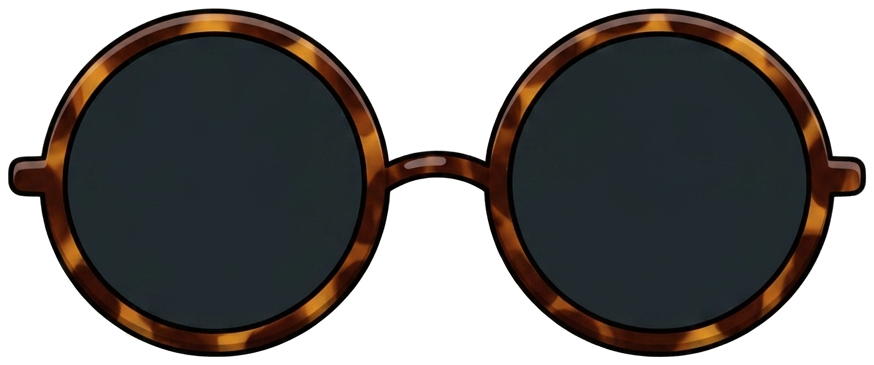
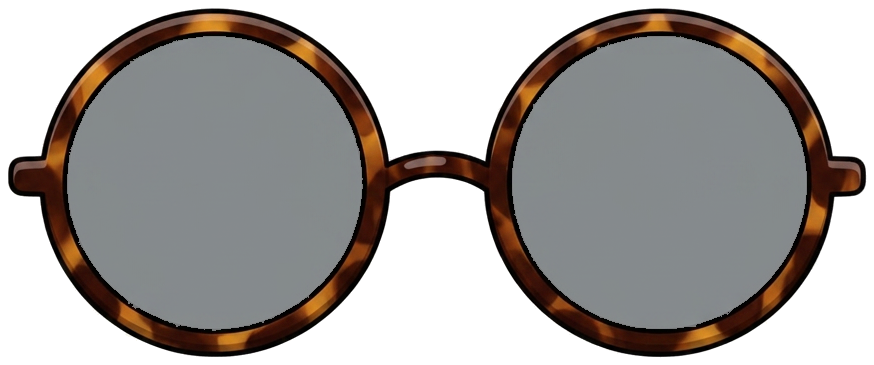
Make tinted lenses semi-transparent so the expression reads through
An opaque lens made sunglasses the one item that hid the mood the app exists
to record. The tinted lens now carries alpha 140 rather than 255, grown back
out from the eroded detection region by colour the way the clear case is grown
out by the white plate.

The choke needed masking off: a darkest-neighbour filter reads the lens as an
edge and drags its value a pixel into the rim, ringing the inside of the
frame. Binarising the silhouette avoids that but discards the partial-alpha
edges the choke is for, worth ~1000px of halo on each clear pair; holding the
lens opaque during the filter avoids both. Clear pairs re-place to zero
differing pixels.

diff --git a/web/index.html b/web/index.html
@@ -16,7 +16,7 @@
 <meta name="apple-mobile-web-app-title" content="Moodmate">
 <link rel="manifest" href="manifest.webmanifest">
 <link rel="apple-touch-icon" href="assets/appicon-192.png">
-<link rel="stylesheet" href="styles.css?v=569093a555">
+<link rel="stylesheet" href="styles.css?v=5341e9609e">
 <script>
   /* Runs before first paint, so a chosen theme doesn't arrive a frame late as
      a white flash. app.js reads the same key and owns it from there. */
@@ -159,7 +159,7 @@
 
 <div class="lightbox" id="lightbox" hidden></div>
 
-<script src="i18n.js?v=569093a555"></script>
-<script src="app.js?v=569093a555"></script>
+<script src="i18n.js?v=5341e9609e"></script>
+<script src="app.js?v=5341e9609e"></script>
 </body>
 </html>

diff --git a/web/sw.js b/web/sw.js
@@ -5,7 +5,7 @@
 // Stamped by export_web.py from a hash of the built assets. It must change
 // whenever any asset does, because the image rule below is cache-first and a
 // cache keyed by a constant name is never invalidated.
-const CACHE = "moodmate-569093a555";
+const CACHE = "moodmate-5341e9609e";
 const SHELL = [
   ".", "index.html", "styles.css", "app.js",
   "manifest.webmanifest", "assets/items.json",

diff --git a/place_accessory.py b/place_accessory.py
@@ -69,6 +69,11 @@ PLATE_LEVEL, PLATE_CHROMA = 242, 12
 # rejects the level rather than the level being trusted.
 INK_LEVELS = (110, 60, 30, 18, 10)
 
+# What a tinted lens is worth. Not 255: sunglasses would otherwise be the one
+# item that hides the expression the app exists to record.
+LENS_ALPHA = 140
+TINT_TOL = 40          # a lens is a flat fill, so this only has to clear noise
+
 
 def cut_plate(path):
     """Drawing -> RGBA with the background, and any *clear* lens, transparent.
@@ -156,18 +161,39 @@ def cut_plate(path):
     # the detected lens, which runs right up to the frame.
     wlab, wcomps = components(plate & ~bg)
     clear = np.zeros(lum.shape, bool)
+    tinted = np.zeros(lum.shape, bool)
     for p in pair:
-        if p["lum"] < PLATE_LEVEL:
-            print("lens is tinted (median luminance %.0f), keeping it opaque" % p["lum"])
-            continue
         here = lab == p["cid"]
+        if p["lum"] < PLATE_LEVEL:
+            # A tinted lens is not cleared but not left flat either: at
+            # LENS_ALPHA the eyes read through it, which matters because
+            # expression is what the whole app is about and an opaque lens is
+            # the only garment that hides it.
+            #
+            # Same erosion problem as the clear case, so the same remedy: grow
+            # the region back out by colour. The lens is a flat fill, so the
+            # pixels within TINT_TOL of its median that touch it are the lens
+            # and stop at the keyline, which is far darker than the tolerance.
+            med = np.median(a[here], axis=0)
+            near = (np.abs(a - med).max(axis=2) <= TINT_TOL) & ~bg
+            nlab, ncomps = components(near)
+            for cid, _ in ncomps:
+                if (nlab == cid)[here].any():
+                    tinted |= nlab == cid
+                    break
+            print("lens is tinted (median luminance %.0f), alpha %d"
+                  % (p["lum"], LENS_ALPHA))
+            continue
         for cid, _ in wcomps:
             if (wlab == cid)[here].any():
                 clear |= wlab == cid
                 break
 
-    rgba = np.dstack([a, np.where(bg | clear, 0, 255)]).astype("uint8")
-    return Image.fromarray(rgba), centres
+    alpha = np.where(bg | clear, 0, 255)
+    alpha[tinted] = LENS_ALPHA
+    rgba = np.dstack([a, alpha]).astype("uint8")
+    lens = Image.fromarray((tinted * 255).astype("uint8"))
+    return Image.fromarray(rgba), centres, lens
 
 
 def similarity(src, dst):
@@ -187,7 +213,7 @@ def main(path, name):
     for d in ("items", "qa"):
         os.makedirs(os.path.join(here, d), exist_ok=True)
 
-    art, centres = cut_plate(path)
+    art, centres, lensplate = cut_plate(path)
     print("lens centres in the drawing: (%.0f, %.0f) and (%.0f, %.0f)"
           % (centres[0][0], centres[0][1], centres[1][0], centres[1][1]))
 
@@ -202,11 +228,24 @@ def main(path, name):
     ia, ib = a / det, b / det
     inv = (ia, ib, -(ia * tx + ib * ty), -ib, ia, -(-ib * tx + ia * ty))
     placed = art.transform((CANVAS, CANVAS), Image.AFFINE, inv, resample=Image.BICUBIC)
+    lensmask = lensplate.transform((CANVAS, CANVAS), Image.AFFINE, inv, resample=Image.BICUBIC)
 
     # 1px choke: resampling a hard alpha edge leaves a translucent fringe that
     # reads as a halo once the frame sits over skin.
+    #
+    # The lens is held opaque while the filter runs, then put back. A darkest
+    # -neighbour filter sees the semi-transparent lens as an edge and pulls that
+    # value a pixel into the rim beside it, drawing a translucent line around
+    # the inside of every tinted frame. Masking it off is what avoids that;
+    # binarising the silhouette instead also avoids it but throws away the
+    # partial-alpha edges the choke exists to pull down, which measured as
+    # ~1000px of halo returning on each of the three clear pairs.
     r, g, bl, al = placed.split()
-    placed = Image.merge("RGBA", (r, g, bl, al.filter(ImageFilter.MinFilter(3))))
+    arr = np.array(al).astype(int)
+    lens = np.array(lensmask) > 128
+    ref = Image.fromarray(np.where(lens, 255, arr).astype("uint8"))
+    arr = np.minimum(arr, np.array(ref.filter(ImageFilter.MinFilter(3))))
+    placed = Image.merge("RGBA", (r, g, bl, Image.fromarray(arr.astype("uint8"))))
     placed.save(os.path.join(here, "items", "item_%s.png" % name))
 
     arr = np.array(placed)
